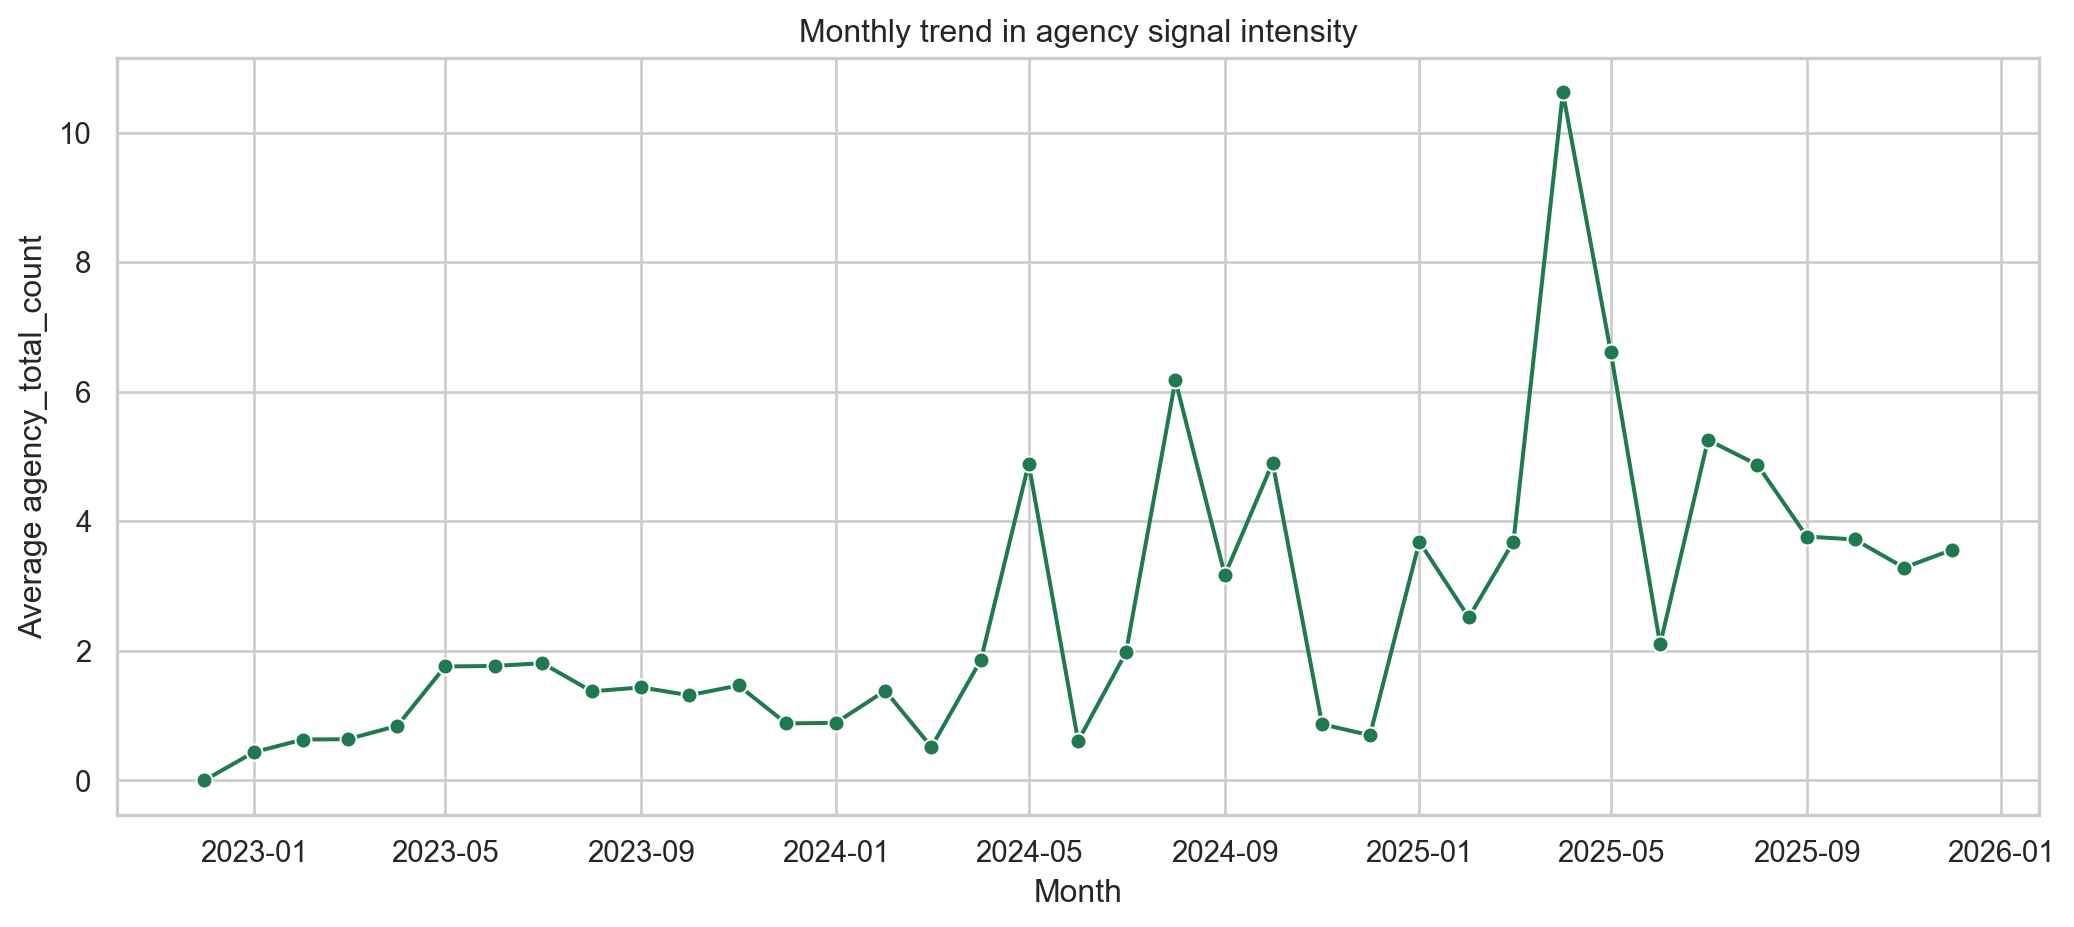
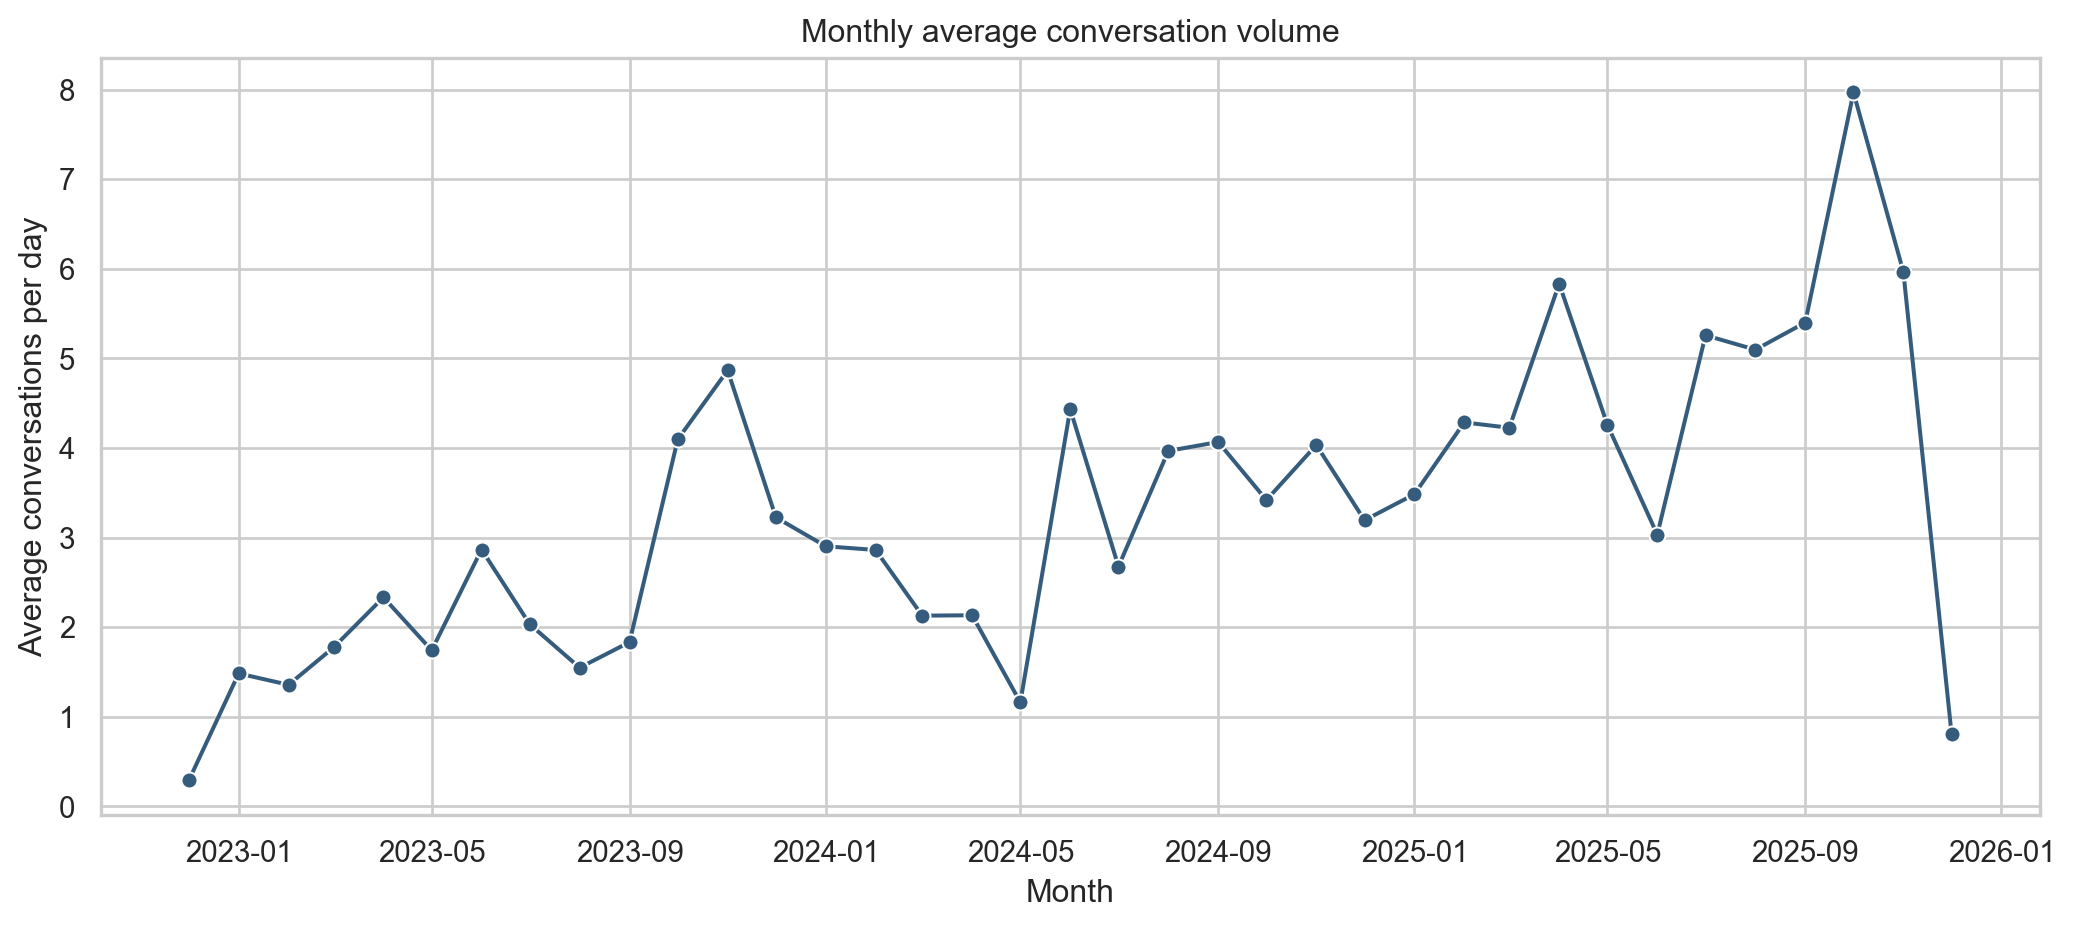
add html vis to langextract report

diff --git a/docs/langextract/agency_signals_report.html b/docs/langextract/agency_signals_report.html
@@ -78,7 +78,7 @@ ul.task-list li input[type="checkbox"] {
 <li>Run LangExtract coding for agency constructs.</li>
 <li>Build binary + count features per construct.</li>
 </ol>
-<div id="1963a2be" class="cell" data-execution_count="1">
+<div id="a8183f88" class="cell" data-execution_count="1">
 <div class="cell-output cell-output-display" data-execution_count="1">
 <pre><code>{'n_conversations': 3714,
  'candidate_share': 0.23694130317716747,
@@ -89,7 +89,7 @@ ul.task-list li input[type="checkbox"] {
 </section>
 <section id="candidate-filtering-diagnostics" class="level2">
 <h2 class="anchored" data-anchor-id="candidate-filtering-diagnostics">Candidate filtering diagnostics</h2>
-<div id="67aaf452" class="cell" data-execution_count="2">
+<div id="2cc67c30" class="cell" data-execution_count="2">
 <div class="cell-output cell-output-display" data-execution_count="2">
 <div>
 
@@ -162,7 +162,7 @@ ul.task-list li input[type="checkbox"] {
 <section id="langextract-coding-setup" class="level2">
 <h2 class="anchored" data-anchor-id="langextract-coding-setup">LangExtract coding setup</h2>
 <p>Constructs coded:</p>
-<div id="5c725372" class="cell" data-execution_count="3">
+<div id="7167fc40" class="cell" data-execution_count="3">
 <div class="cell-output cell-output-display" data-execution_count="3">
 <pre><code>['goal navigation',
  'goal setting',
@@ -181,7 +181,7 @@ ul.task-list li input[type="checkbox"] {
 <h2 class="anchored" data-anchor-id="main-results">Main results</h2>
 <section id="construct-prevalence" class="level3">
 <h3 class="anchored" data-anchor-id="construct-prevalence">Construct prevalence</h3>
-<div id="a7ba0e72" class="cell" data-execution_count="4">
+<div id="5d88a1b5" class="cell" data-execution_count="4">
 <div class="cell-output cell-output-display">
 <div>
 <figure class="figure">
@@ -193,7 +193,7 @@ ul.task-list li input[type="checkbox"] {
 </section>
 <section id="distribution-of-agency-counts-per-conversation" class="level3">
 <h3 class="anchored" data-anchor-id="distribution-of-agency-counts-per-conversation">Distribution of agency counts per conversation</h3>
-<div id="3c86aa77" class="cell" data-execution_count="5">
+<div id="b089bf82" class="cell" data-execution_count="5">
 <div class="cell-output cell-output-display">
 <div>
 <figure class="figure">
@@ -205,7 +205,7 @@ ul.task-list li input[type="checkbox"] {
 </section>
 <section id="construct-co-occurrence-heatmap" class="level3">
 <h3 class="anchored" data-anchor-id="construct-co-occurrence-heatmap">Construct co-occurrence heatmap</h3>
-<div id="e588aa1a" class="cell" data-execution_count="6">
+<div id="33377176" class="cell" data-execution_count="6">
 <div class="cell-output cell-output-display">
 <div>
 <figure class="figure">
@@ -215,9 +215,9 @@ ul.task-list li input[type="checkbox"] {
 </div>
 </div>
 </section>
-<section id="time-trend-monthly-average-agency-counts" class="level3">
-<h3 class="anchored" data-anchor-id="time-trend-monthly-average-agency-counts">Time trend: monthly average agency counts</h3>
-<div id="2cca19a1" class="cell" data-execution_count="7">
+<section id="time-trend-monthly-average-conversation-volume" class="level3">
+<h3 class="anchored" data-anchor-id="time-trend-monthly-average-conversation-volume">Time trend: monthly average conversation volume</h3>
+<div id="bdb40987" class="cell" data-execution_count="7">
 <div class="cell-output cell-output-display">
 <div>
 <figure class="figure">
@@ -227,13 +227,25 @@ ul.task-list li input[type="checkbox"] {
 </div>
 </div>
 </section>
-<section id="top-conversation-topics-by-agency-density" class="level3">
-<h3 class="anchored" data-anchor-id="top-conversation-topics-by-agency-density">Top conversation topics by agency density</h3>
-<div id="7f8db822" class="cell" data-execution_count="8">
+<section id="time-trend-monthly-average-agency-counts" class="level3">
+<h3 class="anchored" data-anchor-id="time-trend-monthly-average-agency-counts">Time trend: monthly average agency counts</h3>
+<div id="d36f1d2e" class="cell" data-execution_count="8">
 <div class="cell-output cell-output-display">
 <div>
 <figure class="figure">
-<p><img src="agency_signals_report_files/figure-html/cell-9-output-1.png" width="944" height="559" class="figure-img"></p>
+<p><img src="agency_signals_report_files/figure-html/cell-9-output-1.png" width="1037" height="464" class="figure-img"></p>
+</figure>
+</div>
+</div>
+</div>
+</section>
+<section id="top-conversation-topics-by-agency-density" class="level3">
+<h3 class="anchored" data-anchor-id="top-conversation-topics-by-agency-density">Top conversation topics by agency density</h3>
+<div id="54dce2b9" class="cell" data-execution_count="9">
+<div class="cell-output cell-output-display">
+<div>
+<figure class="figure">
+<p><img src="agency_signals_report_files/figure-html/cell-10-output-1.png" width="944" height="559" class="figure-img"></p>
 </figure>
 </div>
 </div>
@@ -242,8 +254,8 @@ ul.task-list li input[type="checkbox"] {
 </section>
 <section id="redacted-evidence-examples" class="level2">
 <h2 class="anchored" data-anchor-id="redacted-evidence-examples">Redacted evidence examples</h2>
-<div id="c17584c6" class="cell" data-execution_count="9">
-<div class="cell-output cell-output-display" data-execution_count="9">
+<div id="a86615e1" class="cell" data-execution_count="10">
+<div class="cell-output cell-output-display" data-execution_count="10">
 <div>
 
 
